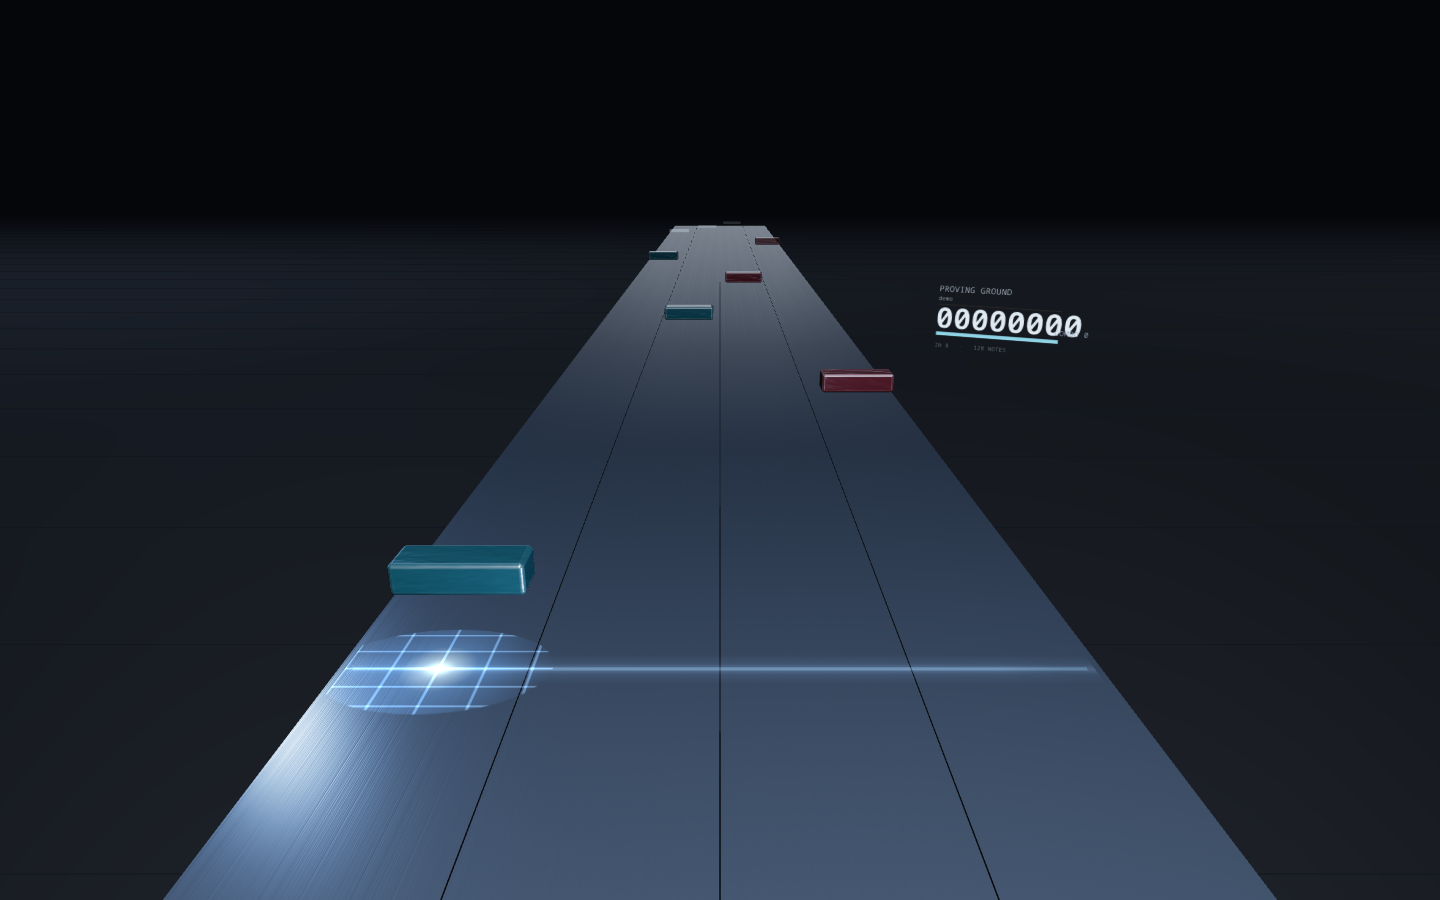
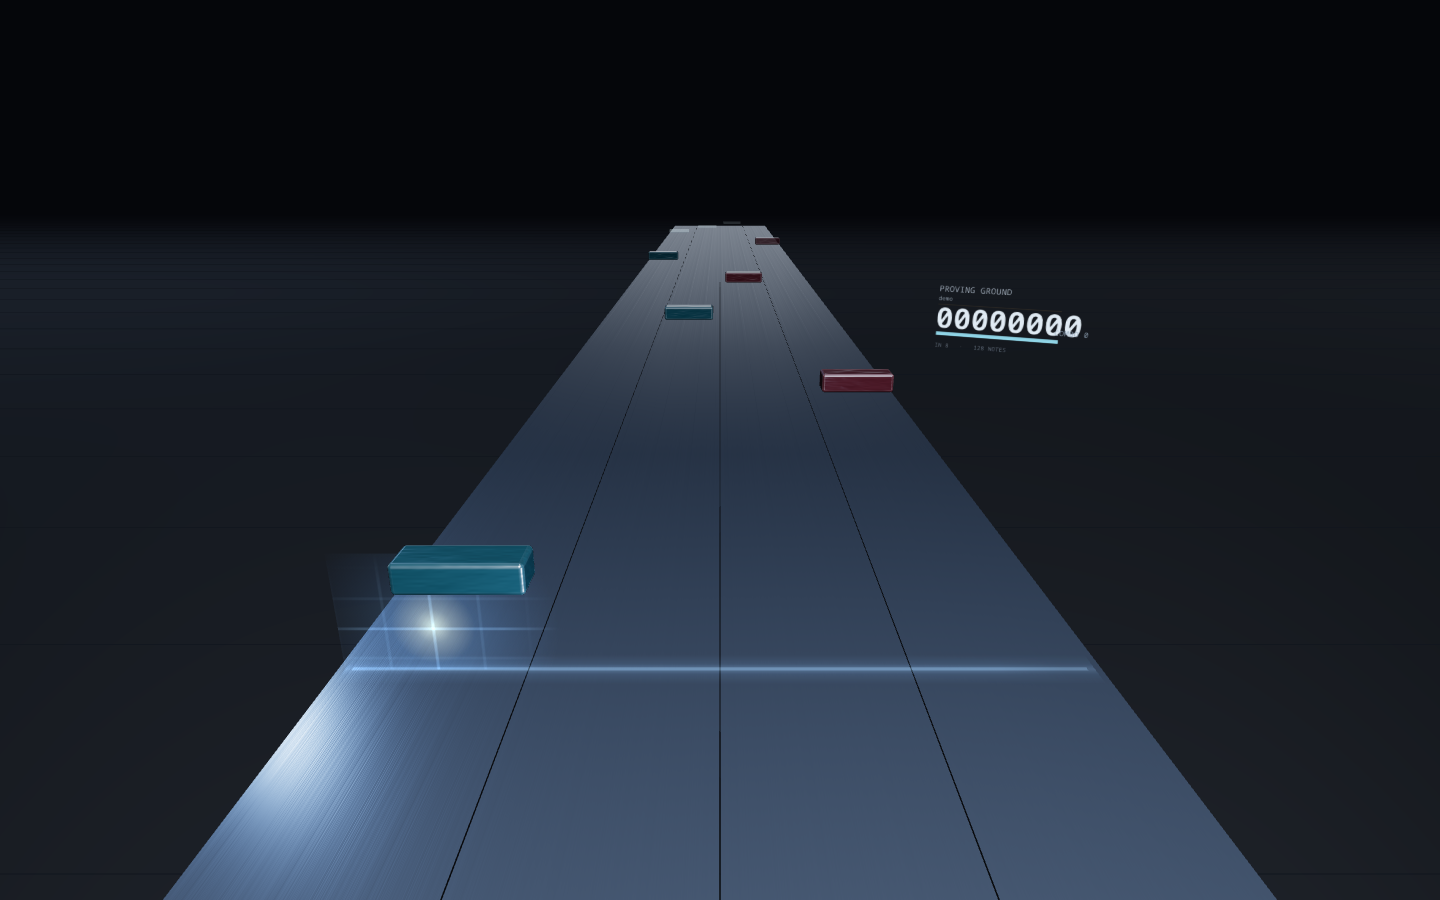
fix(guide): make judgement net vertical and softer

Changed region(s): [[0.2188, 0.6222, 0.375, 0.8089]]

diff --git a/prototype/src/game/guide.ts b/prototype/src/game/guide.ts
@@ -5,15 +5,16 @@ import type { TableGeometry, TableParams } from '../config';
 /**
  * 判定带上的“引导网”。
  *
- * 默认完全透明；只有即将到达判定带的地面 hit 会在附近点亮一小块网格。
- * 亮度按时间而不是距离计算：进入 perfect 窗口（±80ms）时最亮，中心带一点暖黄，
- * 超过 180ms 就完全熄灭，避免 note 还很远时整条判定带就在发光。
+ * 和 editor 的 3D 编辑网格一样，是一面竖在 bandZ 上的网格；默认完全透明。
+ * 地面 hit 接近时，只在它附近的网格上点亮一小块，并随时钟平滑增强。
+ * 时间阈值：180ms 内开始，perfect ±80ms 最亮；更远完全不亮。
  *
- * 图层是一个贴近台面的横置平面，纹理每帧重画一小块椭圆网格；没有常驻亮线。
+ * 网格不是贴花：没有半透明底板，只有局部软化的线条 / 冷光 / perfect 暖黄核心。
  */
 
 export interface GuideHit {
   x: number;
+  y: number;
   time: number;
 }
 
@@ -25,11 +26,12 @@ export interface JudgementGuide {
 }
 
 const TEXTURE_W = 512;
-const TEXTURE_H = 160;
+const TEXTURE_H = 420;
 const CELL_X = 32;
-const CELL_Y = 20;
-const PATCH_RX = 78;
-const PATCH_RY = 48;
+const CELL_Y = 22;
+const PATCH_RX = 84;
+const PATCH_RY = 52;
+const GUIDE_HEIGHT = 0.9;
 const GUIDE_START_MS = 180;
 const GUIDE_FULL_MS = 80;
 
@@ -62,13 +64,12 @@ export function createJudgementGuide(params: TableParams, geometry: TableGeometr
   });
 
   const width = geometry.laneWidth * 4 * 0.98;
-  const depth = 0.34;
-  const planeGeometry = new THREE.PlaneGeometry(width, depth);
-  planeGeometry.rotateX(-Math.PI / 2);
+  const planeGeometry = new THREE.PlaneGeometry(width, GUIDE_HEIGHT);
   const mesh = new THREE.Mesh(planeGeometry, material);
   mesh.name = 'judgement-guide';
   mesh.renderOrder = 4;
-  mesh.position.set(0, params.tableHeight + 0.0014, geometry.bandZ);
+  // 底边略低于台面，让 hit 的 y=0.07 落在网格内部而不是贴着裁切线。
+  mesh.position.set(0, params.tableHeight - 0.08 + GUIDE_HEIGHT / 2, geometry.bandZ);
   // 不能让 editor 的 3D 拾取把这块透明引导网当成 note。
   mesh.raycast = () => {};
 
@@ -77,56 +78,68 @@ export function createJudgementGuide(params: TableParams, geometry: TableGeometr
   group.add(mesh);
   group.visible = false;
 
-  function drawPatch(px: number, intensity: number): void {
-    const cy = TEXTURE_H / 2;
-    ctx.save();
-    ctx.beginPath();
-    ctx.ellipse(px, cy, PATCH_RX, PATCH_RY, 0, 0, Math.PI * 2);
-    ctx.clip();
+  function drawPatch(px: number, py: number, intensity: number): void {
+    // 软边：不裁椭圆，只画一块渐变消失的网格；alpha 整体压低，避免变成发光的板子。
     ctx.globalCompositeOperation = 'lighter';
 
-    // 网格线：只在椭圆内出现；亮度跟着时间 ramp 走。
-    ctx.globalAlpha = 0.18 + intensity * 0.55;
-    ctx.strokeStyle = 'rgba(158, 214, 255, 0.8)';
-    ctx.lineWidth = 1;
     const x0 = Math.floor((px - PATCH_RX) / CELL_X) * CELL_X;
     const x1 = px + PATCH_RX;
     for (let x = x0; x <= x1; x += CELL_X) {
+      const falloff = Math.max(0, 1 - Math.abs(x - px) / PATCH_RX);
+      const alpha = intensity * falloff * falloff * 0.34;
+      if (alpha < 0.008) continue;
+      const major = Math.abs(x / CELL_X - Math.round(x / CELL_X)) < 1e-6 && Math.round(x / CELL_X) % 4 === 0;
+      const grad = ctx.createLinearGradient(0, py - PATCH_RY, 0, py + PATCH_RY);
+      grad.addColorStop(0, 'rgba(154, 212, 255, 0)');
+      grad.addColorStop(0.22, `rgba(154, 212, 255, ${alpha * (major ? 1.25 : 0.85)})`);
+      grad.addColorStop(0.78, `rgba(154, 212, 255, ${alpha * (major ? 1.25 : 0.85)})`);
+      grad.addColorStop(1, 'rgba(154, 212, 255, 0)');
+      ctx.strokeStyle = grad;
+      ctx.lineWidth = 1;
       ctx.beginPath();
-      ctx.moveTo(x, cy - PATCH_RY);
-      ctx.lineTo(x, cy + PATCH_RY);
+      ctx.moveTo(x, py - PATCH_RY);
+      ctx.lineTo(x, py + PATCH_RY);
       ctx.stroke();
     }
-    const y0 = Math.floor((cy - PATCH_RY) / CELL_Y) * CELL_Y;
-    const y1 = cy + PATCH_RY;
+
+    const y0 = Math.floor((py - PATCH_RY) / CELL_Y) * CELL_Y;
+    const y1 = py + PATCH_RY;
     for (let y = y0; y <= y1; y += CELL_Y) {
+      const falloff = Math.max(0, 1 - Math.abs(y - py) / PATCH_RY);
+      const alpha = intensity * falloff * falloff * 0.3;
+      if (alpha < 0.008) continue;
+      const major = Math.abs(y / CELL_Y - Math.round(y / CELL_Y)) < 1e-6 && Math.round(y / CELL_Y) % 4 === 0;
+      const grad = ctx.createLinearGradient(px - PATCH_RX, 0, px + PATCH_RX, 0);
+      grad.addColorStop(0, 'rgba(154, 212, 255, 0)');
+      grad.addColorStop(0.22, `rgba(154, 212, 255, ${alpha * (major ? 1.25 : 0.85)})`);
+      grad.addColorStop(0.78, `rgba(154, 212, 255, ${alpha * (major ? 1.25 : 0.85)})`);
+      grad.addColorStop(1, 'rgba(154, 212, 255, 0)');
+      ctx.strokeStyle = grad;
+      ctx.lineWidth = 1;
       ctx.beginPath();
       ctx.moveTo(px - PATCH_RX, y);
       ctx.lineTo(px + PATCH_RX, y);
       ctx.stroke();
     }
 
-    // 冷色底光：让网格不是悬空的线。
-    const glow = ctx.createRadialGradient(px, cy, 0, px, cy, PATCH_RX);
-    glow.addColorStop(0, `rgba(118, 190, 255, ${0.16 + intensity * 0.22})`);
-    glow.addColorStop(0.55, `rgba(80, 150, 230, ${0.06 + intensity * 0.12})`);
+    const glow = ctx.createRadialGradient(px, py, 0, px, py, PATCH_RX);
+    glow.addColorStop(0, `rgba(112, 184, 255, ${0.1 + intensity * 0.14})`);
+    glow.addColorStop(0.55, `rgba(80, 148, 225, ${0.035 + intensity * 0.07})`);
     glow.addColorStop(1, 'rgba(60, 120, 200, 0)');
-    ctx.globalAlpha = 1;
     ctx.fillStyle = glow;
-    ctx.fillRect(px - PATCH_RX, cy - PATCH_RY, PATCH_RX * 2, PATCH_RY * 2);
+    ctx.fillRect(px - PATCH_RX, py - PATCH_RY, PATCH_RX * 2, PATCH_RY * 2);
 
-    // perfect 窗口附近，中心泛暖黄；不亮的时候不画。
     if (intensity > 0.65) {
       const core = (intensity - 0.65) / 0.35;
-      const warm = ctx.createRadialGradient(px, cy, 0, px, cy, 26);
-      warm.addColorStop(0, `rgba(255, 224, 122, ${0.62 * core})`);
-      warm.addColorStop(0.45, `rgba(255, 198, 90, ${0.24 * core})`);
+      const warm = ctx.createRadialGradient(px, py, 0, px, py, 28);
+      warm.addColorStop(0, `rgba(255, 228, 138, ${0.5 * core})`);
+      warm.addColorStop(0.45, `rgba(255, 201, 94, ${0.2 * core})`);
       warm.addColorStop(1, 'rgba(255, 180, 70, 0)');
       ctx.fillStyle = warm;
-      ctx.fillRect(px - 30, cy - 30, 60, 60);
+      ctx.fillRect(px - 30, py - 30, 60, 60);
     }
 
-    ctx.restore();
+    ctx.globalCompositeOperation = 'source-over';
   }
 
   function clear(): void {
@@ -139,17 +152,19 @@ export function createJudgementGuide(params: TableParams, geometry: TableGeometr
   function update(clockMs: number, windowValue: number, hits: GuideHit[]): void {
     group.position.x = windowValue * geometry.laneWidth;
 
-    const lit: Array<{ px: number; intensity: number }> = [];
+    const lit: Array<{ px: number; py: number; intensity: number }> = [];
     const windowCenter = windowValue * geometry.laneWidth;
     const windowWidth = geometry.laneWidth * 4;
+    const bottom = params.tableHeight - 0.08;
     for (const hit of hits) {
       const delta = Math.abs(clockMs - hit.time);
       if (delta > GUIDE_START_MS) continue;
       const intensity = 1 - smoothstep(GUIDE_FULL_MS, GUIDE_START_MS, delta);
       if (intensity <= 0.01) continue;
       const u = (hit.x - windowCenter) / windowWidth + 0.5;
-      if (u < -0.08 || u > 1.08) continue;
-      lit.push({ px: u * TEXTURE_W, intensity });
+      const v = (hit.y - bottom) / GUIDE_HEIGHT;
+      if (u < -0.08 || u > 1.08 || v < -0.02 || v > 1.02) continue;
+      lit.push({ px: u * TEXTURE_W, py: (1 - v) * TEXTURE_H, intensity });
     }
 
     if (lit.length === 0) {
@@ -159,7 +174,7 @@ export function createJudgementGuide(params: TableParams, geometry: TableGeometr
 
     group.visible = true;
     ctx.clearRect(0, 0, TEXTURE_W, TEXTURE_H);
-    for (const item of lit) drawPatch(item.px, item.intensity);
+    for (const item of lit) drawPatch(item.px, item.py, item.intensity);
     texture.needsUpdate = true;
   }
 

diff --git a/prototype/src/game/player.ts b/prototype/src/game/player.ts
@@ -731,7 +731,7 @@ export function createPlayer(
       for (const note of runtime) {
         if (note.kind !== 'hit' || note.resolved) continue;
         if (Math.abs(clockMs - note.chart.time) > 180) continue;
-        approaching.push({ x: xOf(note.chart), time: note.chart.time });
+        approaching.push({ x: xOf(note.chart), y: yOf(note.chart), time: note.chart.time });
       }
       guide.update(clockMs, windowValue, approaching);
 

diff --git a/prototype/STATUS.md b/prototype/STATUS.md
@@ -37,7 +37,7 @@
 - **包索引 / 懒加载（2026-10-20）**：`public/packages/index.json` 在启动时只读元数据，选中条目后才下载 `.parallax`；Infinity Heaven / Air / Ticks 会直接出现在 Songs。
 - **arc 流速 / 包 offset（2026-10-20）**：Settings 改流速会同步缩放已生成的 arc；`meta.offset` 改为隐藏的 `chartOffsetMs`，与玩家校准 offset 分离。
 - **手感布局（2026-10-20）**：单轨宽 0.23→0.27m，所有 note / arc 的 x 按 lane 单位同比展开；判定带前移 25cm（近端内 0.80m）。editor 的 3D view 共享 `DEFAULT_PARAMS` / `deriveGeometry`，自动同步。
-- **打击反馈（2026-10-21）**：hit / drag 加轻打击音；结算加 GOOD early / late；判定带加时间驱动的引导网，perfect 窗口最亮。
+- **打击反馈（2026-10-21）**：hit / drag 加轻打击音；结算加 GOOD early / late；判定带加竖直、软边、时间驱动的引导网，perfect 窗口最亮。
 - **暂缓**：无物量时立即结算，暂不按包内 `meta.duration` 等待；等 Infinity Heaven 谱面补充完成后再处理。
 
 ---

diff --git a/CHANGELOG.md b/CHANGELOG.md
@@ -22,7 +22,7 @@
 - 手感布局：单轨 0.23→0.27m，判定带近端距离 0.55→0.80m（前移 25cm）；editor 3D 预览共用同一套参数。新增 `?lane` / `?band` 调参。
 - 打击音：hit / drag 使用低通 + 低增益的 Kenney UI Audio click；不叠 arc / hold tick。
 - 结算增加 GOOD TIMING：按 hit 的 offset 统计 early / late。
-- 判定带增加引导网：默认全透明，hit 在 180ms 内接近时点亮网格，perfect ±80ms 时最亮、中心暖黄；editor 3D 也自动显示。
+- 判定带增加引导网：竖直贴在 bandZ（同 editor 3D 编辑网格），默认全透明，hit 在 180ms 内接近时点亮软边网格，perfect ±80ms 时最亮、中心暖黄；editor 3D 也自动显示。
 - 谱面 / 包自带 offset 与玩家 offset 分离：`meta.offset` 写入 `chartOffsetMs`，只在音频时钟内部生效，不再显示为 Settings 的 Offset。
 
 ## 0.3.11 — 2026-10-18

diff --git a/docs/ui-vr2/README.md b/docs/ui-vr2/README.md
@@ -14,7 +14,7 @@
 | `settings.png` | 六个真实设置项 |
 | `result.png` | 结算，91 Perfect / 100%；右侧 GOOD TIMING 显示 early / late |
 | `sheet.png` | 六屏总览 |
-| `guide.png` | 游玩中的判定引导网：hit 接近 perfect 窗口时点亮一小块网格 |
+| `guide.png` | 游玩中的竖直判定引导网：hit 接近 perfect 窗口时点亮一小块软边网格 |
 
 截图用开发服务器、正对面板的相机和干净背景：
 
